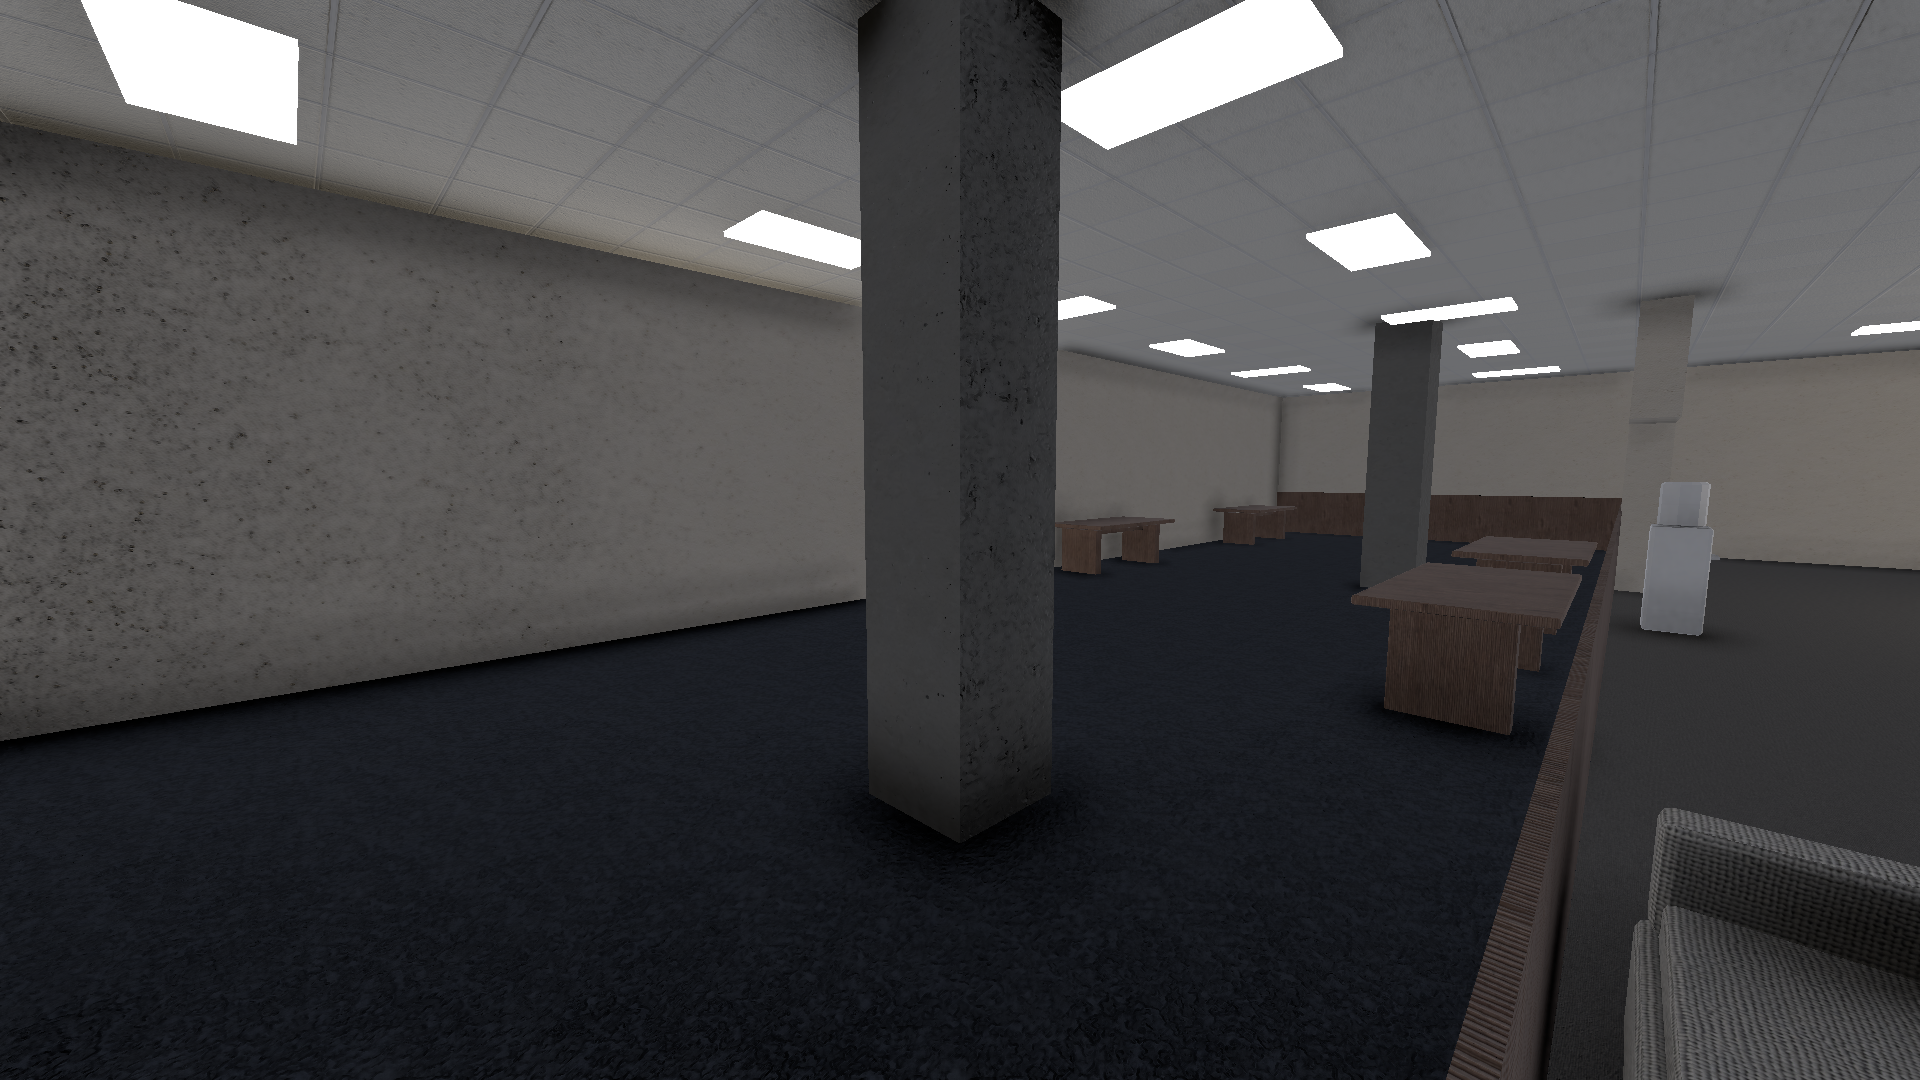
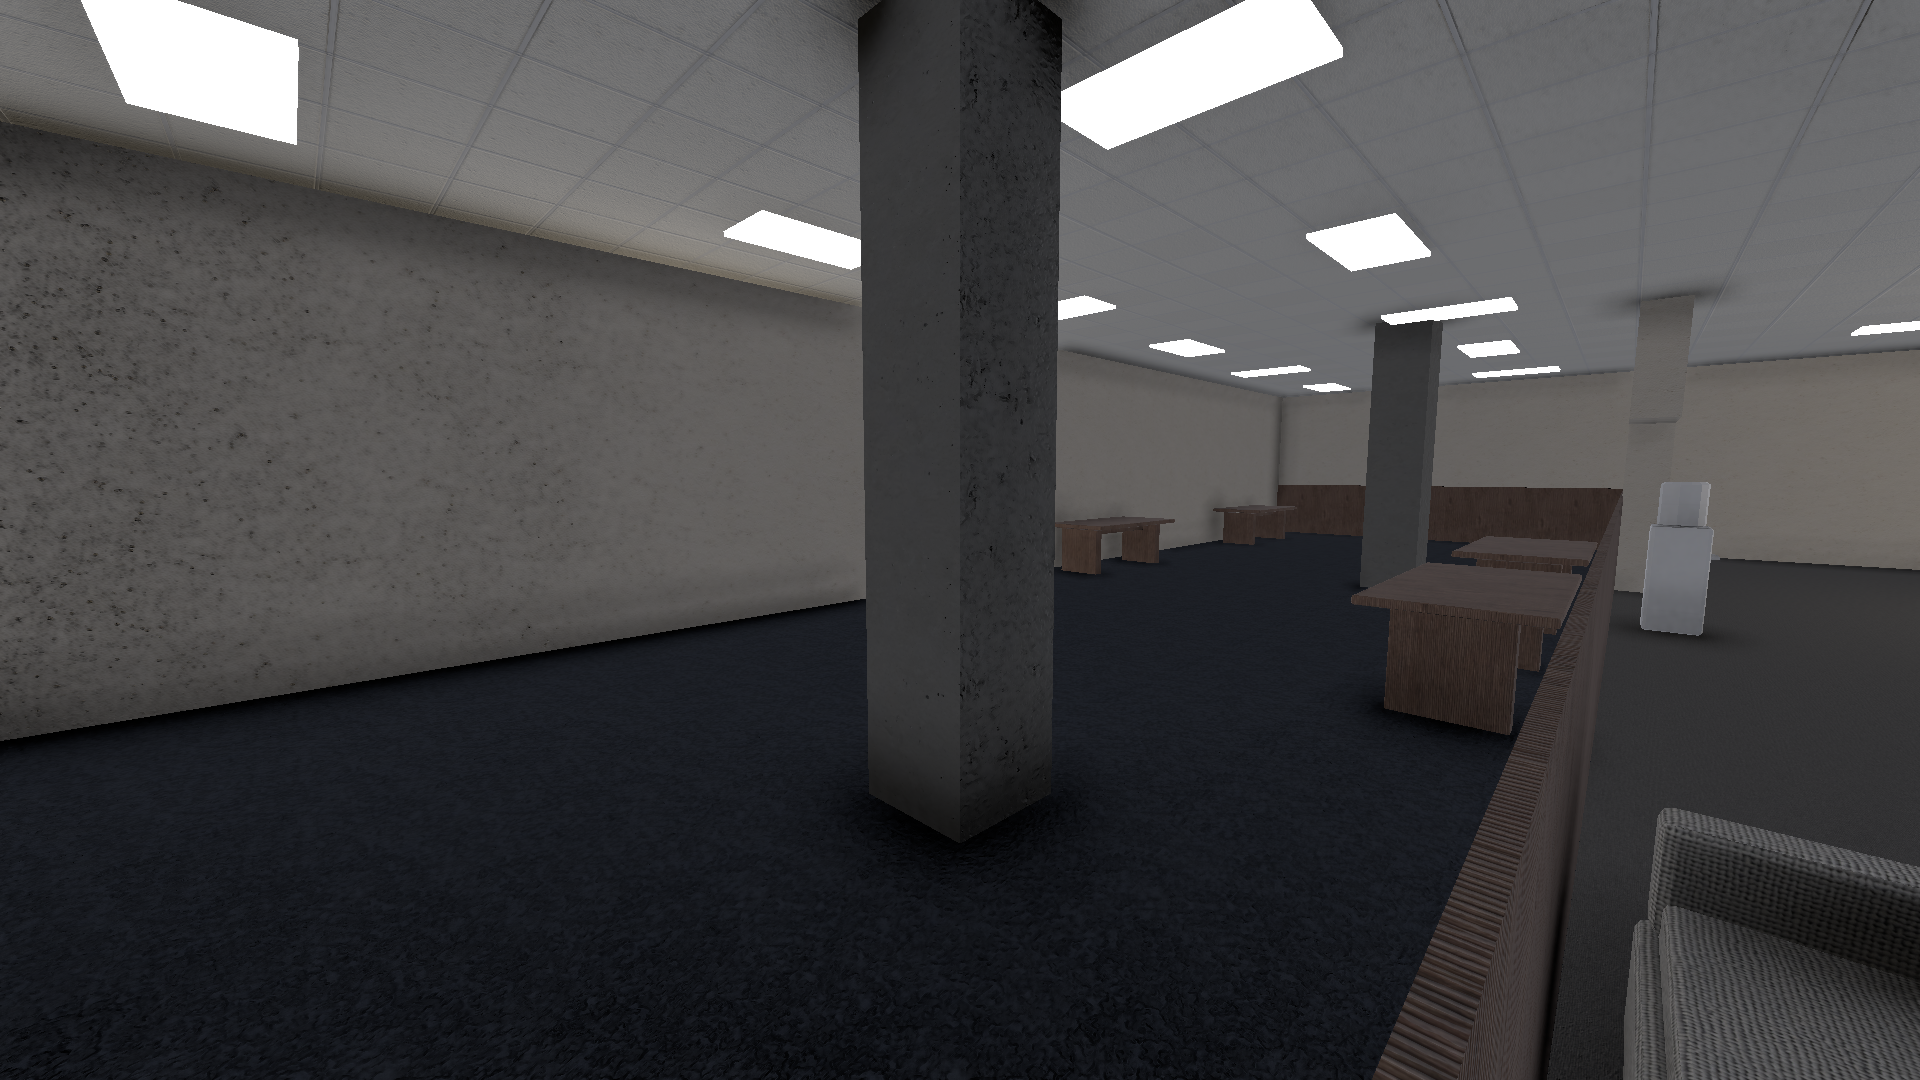
美术: 重做纸箱堆（三层对齐、0.78×0.76×1.40）
- 原 gen_crate_stack 五层错位纸箱累到 2.08m 高（json 却写 1.4），层间外挑 0.3m，
  看起来像悬空/没对齐；改成三层逐层略收、层间不外挑，总高 1.40m，footprint 改 0.80×0.76。
- 用 --only crate_stack 重新导 FBX，PropPipeline.ImportAll 重建 82 个 prefab；
  smoke 编译无错；M1 走廊截图里纸箱堆已落地对齐。

diff --git a/tools/blender/gen_props.py b/tools/blender/gen_props.py
@@ -251,21 +251,19 @@ def gen_sofa():
 
 
 def gen_crate_stack():
-    """纸箱堆 1.4×0.9×1.4：三层错位纸箱。"""
+    """纸箱堆 0.78×0.74×1.4：三层纸箱，逐层略收、层间不外挑。"""
     o = []
     layout = [
-        (0.62, 0.58, 0.44, -0.32, 0.10),
-        (0.62, 0.58, 0.44, 0.32, -0.08),
-        (0.60, 0.56, 0.42, -0.28, -0.10),
-        (0.58, 0.54, 0.40, 0.30, 0.12),
-        (0.56, 0.52, 0.38, 0.0, 0.0),
+        (0.78, 0.74, 0.50, 0.00, 0.00),
+        (0.72, 0.68, 0.48, 0.01, -0.01),
+        (0.64, 0.60, 0.42, -0.01, 0.01),
     ]
     z = 0.0
     for i, (w, d, h, x, y) in enumerate(layout):
         o.append(box("crate_%d" % i, (w, d, h), (x, y, z + h * 0.5), BODY if i % 2 == 0 else WHITE, 0.012))
         o.append(box("tape_%d" % i, (w * 0.5, 0.02, 0.012), (x, y - d * 0.5 - 0.005, z + h - 0.02), ACCENT, 0.0))
         z += h
-    return o, (1.4, 0.9), 1.4, "large", ("WoodPanel", "IndustrialPaint")
+    return o, (0.80, 0.76), 1.40, "large", ("WoodPanel", "IndustrialPaint")
 
 
 def gen_trash_bin():
